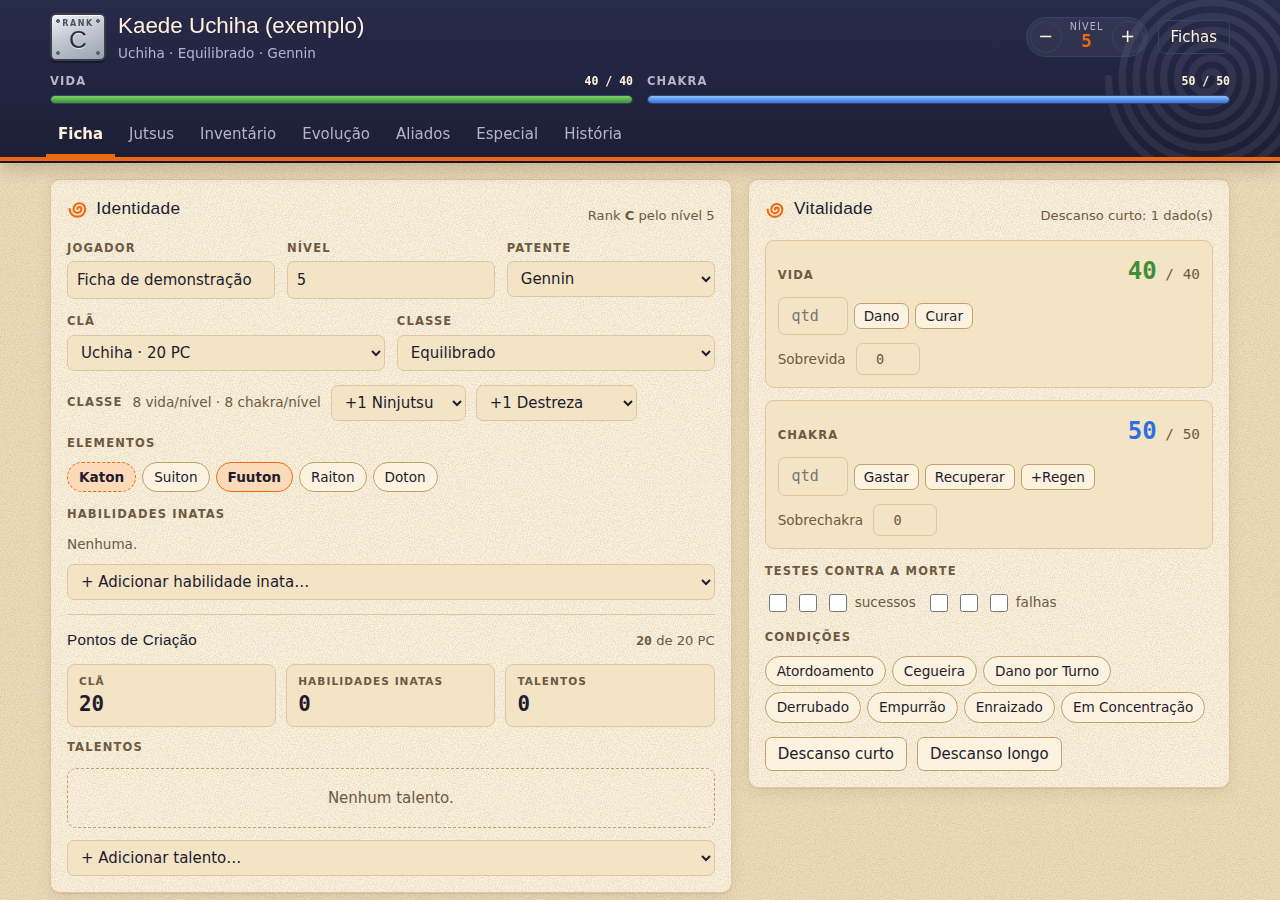
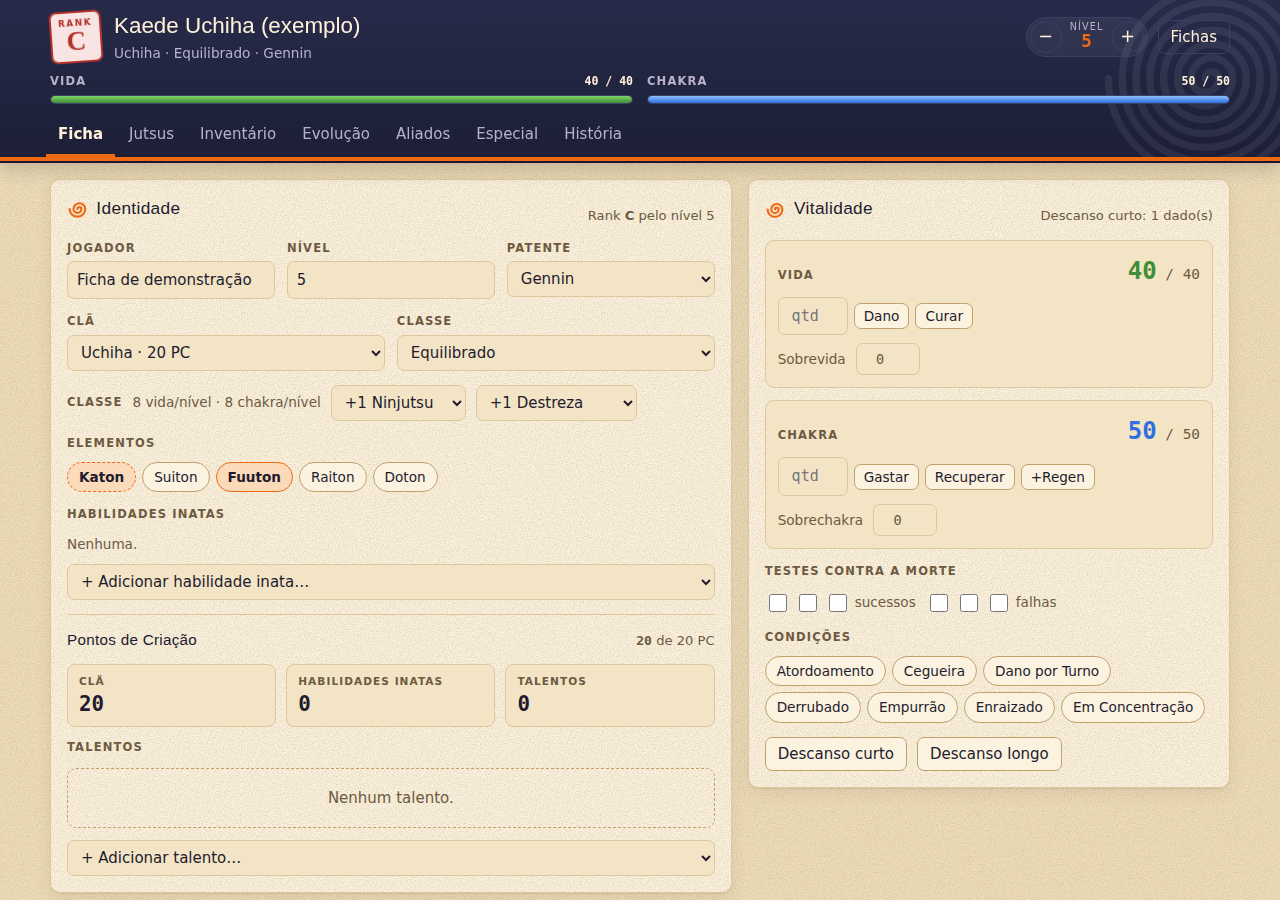
Restaura o selo de rank original e remove textos de Evolução e Aliados
- Selo de rank volta ao carimbo vermelho inclinado (cores e fonte de
  antes), sem mexer no resto do tema
- Remove os textos de apoio de Upgrades de clã, Escalonamento,
  Invocações e Marionetes

Claude-Session: https://claude.ai/code/session_01JLEPE48m9m7zbf3aS9xCqh

Changed region(s): [[0.0312, 0.0, 0.2812, 0.0933]]

diff --git a/css/style.css b/css/style.css
@@ -12,6 +12,9 @@
   --accent-soft: #FADAB9;
   --seal: #B8281E;
   --seal-soft: #F5D8D0;
+  --selo: #B5302A;
+  --selo-soft: #F8E4E2;
+  --f-selo: "Shippori Mincho B1", "Hiragino Mincho ProN", "Yu Mincho", Georgia, serif;
   --vida: #3E8E37;
   --vida-soft: #DCEBCF;
   --chakra: #2F6FE0;
@@ -48,6 +51,8 @@
     --accent-soft: #432818;
     --seal: #E8594B;
     --seal-soft: #3F1D1C;
+    --selo: #E4604F;
+    --selo-soft: #3A1F1D;
     --vida: #5DBB54;
     --vida-soft: #1C3319;
     --chakra: #5E9BFF;
@@ -78,6 +83,8 @@
   --accent-soft: #432818;
   --seal: #E8594B;
   --seal-soft: #3F1D1C;
+  --selo: #E4604F;
+  --selo-soft: #3A1F1D;
   --vida: #5DBB54;
   --vida-soft: #1C3319;
   --chakra: #5E9BFF;
@@ -146,23 +153,15 @@ p { margin: 0; }
 .topo .btn, .topo .btn-ico { background: transparent; color: var(--hdr-ink); border-color: var(--hdr-line); }
 .topo .btn:hover, .topo .btn-ico:hover { border-color: var(--accent); color: var(--accent); }
 
-/* Selo de rank: placa da bandana ninja */
 .selo {
-  width: 56px; height: 48px; flex: none; position: relative;
-  border: 2px solid #3A3F4E; border-radius: 6px;
-  background:
-    radial-gradient(circle at 6px 6px, #5B6272 1.6px, transparent 2.2px),
-    radial-gradient(circle at calc(100% - 6px) 6px, #5B6272 1.6px, transparent 2.2px),
-    radial-gradient(circle at 6px calc(100% - 6px), #5B6272 1.6px, transparent 2.2px),
-    radial-gradient(circle at calc(100% - 6px) calc(100% - 6px), #5B6272 1.6px, transparent 2.2px),
-    linear-gradient(160deg, #F1F3F6 0%, #C3C9D2 45%, #99A2AF 100%);
-  box-shadow: inset 0 1px 0 rgba(255, 255, 255, .8), 0 2px 0 rgba(0, 0, 0, .35);
-  color: #2A2F3D;
+  width: 52px; height: 52px; flex: none;
+  border: 2.5px solid var(--selo); color: var(--selo); background: var(--selo-soft);
+  border-radius: 7px; transform: rotate(-4deg);
   display: grid; place-items: center; align-content: center; gap: 0;
-  font-family: var(--f-display);
+  font-family: var(--f-selo);
 }
-.selo-rot { font-size: .5rem; letter-spacing: .2em; text-transform: uppercase; font-family: var(--f-body); font-weight: 700; line-height: 1; color: #4A5061; }
-.selo-letra { font-size: 1.55rem; line-height: 1; text-shadow: 0 1px 0 rgba(255, 255, 255, .7); }
+.selo-rot { font-size: .55rem; letter-spacing: .18em; text-transform: uppercase; font-family: var(--f-body); font-weight: 700; line-height: 1; }
+.selo-letra { font-size: 1.7rem; font-weight: 800; line-height: 1; }
 
 .nivel-ctl { display: flex; align-items: center; gap: 4px; background: rgba(255, 255, 255, .06); border: 1px solid var(--hdr-line); border-radius: 999px; padding: 3px; }
 .nivel-val { display: grid; justify-items: center; min-width: 42px; line-height: 1.05; }
@@ -398,7 +397,7 @@ details.modulo > .modulo-corpo { padding: 0 16px 16px; display: grid; gap: 12px;
   .nivel-ctl .btn-ico { width: 28px; height: 28px; }
   #btnFichas { padding: 6px 9px; }
   .abas button { padding: 7px 10px 8px; }
-  .selo { width: 48px; height: 42px; }
+  .selo { width: 44px; height: 44px; }
   .selo-letra { font-size: 1.4rem; }
   .painel { padding: 13px; }
 }

diff --git a/js/app.js b/js/app.js
@@ -744,7 +744,6 @@
     <section class="painel c6">
       <div class="painel-topo"><h2>Upgrades de clã</h2><span class="extra">Níveis 5, 10, 15 e 20</span></div>
       ${NIVEIS_UPGRADE.map((n) => campo(`Nível ${n}${F.nivel < n ? ' · ainda não alcançado' : ''}`, area(`upgrades.${n}`, F.upgrades[n], 'rows="2" placeholder="Aprimoramento, novo jutsu, técnica criada, despertar…"'))).join('')}
-      <p class="sub">Opções: aprimorar técnica até 1 rank acima (chakra ao mínimo do rank e +30% de dano), alterar efeito de técnica, aprender jutsu do seu rank, criar jutsu do seu rank fora das regras, unir 2 estilos de luta, ou despertar técnicas (D).</p>
     </section>`;
 
     const tc = F.treinoCalc;
@@ -775,7 +774,6 @@
       <div class="tabela-wrap"><table class="nivel-tab"><tbody>
         ${Object.entries(R.ESCALONAMENTO).map(([lv, t]) => `<tr class="${Number(lv) === F.nivel ? 'atual' : Number(lv) < F.nivel ? 'passado' : ''}"><td>${lv}</td><td>${esc(t) || '—'}</td></tr>`).join('')}
       </tbody></table></div>
-      <p class="sub">Sem comprar jutsu, o ninja pode receber Ryo de missão do rank: níveis 1, 2 e 4: 200 · 7 e 9: 400 · 12 e 14: 800 · 17, 19 e 20: 1600.</p>
     </section>`;
 
     return `<div class="grade">${pericias}${upgrades}${treinos}${escal}</div>`;
@@ -825,7 +823,6 @@
         <div class="painel-topo"><h2>Invocações e companheiros</h2><span class="extra">${F.companheiros.length}</span></div>
         <div class="barra-ferr"><button class="btn primario" data-acao="abrirCriaturas">Adicionar criatura</button><button class="btn" data-acao="novoComp">Em branco</button></div>
         <div class="lista">${comps || '<div class="vazio">Nenhuma invocação ou companheiro.</div>'}</div>
-        <p class="sub">A invocação só age na rotação seguinte, antes ou depois do turno do invocador, com 3 PA (ataque 2 PA, deslocamento 1 PA). Defende como ninja, apenas com Tai (ou Constituição ao defender aliado). Máximo: 1 de rank B e 1 de rank A ou S.</p>
         <details class="item"><summary><span class="item-linha"><span class="item-nome">Invocação reversa (d20)</span></span></summary>
           <div class="item-corpo tabela-wrap"><table><tbody>${(window.INVOCACAO_REVERSA || []).map(([d, n]) => `<tr><td class="num">${d}</td><td>${esc(n)}</td></tr>`).join('')}</tbody></table></div></details>
       </section>
@@ -835,7 +832,6 @@
           <select id="addMario" aria-label="Adicionar marionete"><option value="">+ Adicionar marionete…</option>${CAT_M.map((m, i) => opt(i, `${m.n} · ${m.custo}`)).join('')}${opt('novo', 'Marionete criada em treino (em branco)')}</select>
         </div>
         <div class="lista">${marios || '<div class="vazio">Nenhuma marionete. Exige “Kugutsu no Jutsu”.</div>'}</div>
-        <p class="sub">Cada PA gasto manipulando é um PA para cada marionete. Uma jogada de ataque por marionete (2 PA, um componente). DN da marionete = DN de Ninjutsu do usuário. Consertadas no descanso longo.</p>
       </section>
     </div>`;
   }

diff --git a/index.html b/index.html
@@ -7,7 +7,7 @@
 <meta name="description" content="Protótipo de ficha de personagem para o RPG de Naruto (sistema próprio).">
 <link rel="preconnect" href="https://fonts.googleapis.com">
 <link rel="preconnect" href="https://fonts.gstatic.com" crossorigin>
-<link rel="stylesheet" href="https://fonts.googleapis.com/css2?family=Dela+Gothic+One&family=JetBrains+Mono:wght@500;700&family=Zen+Kaku+Gothic+New:wght@400;500;700&display=swap">
+<link rel="stylesheet" href="https://fonts.googleapis.com/css2?family=Dela+Gothic+One&family=JetBrains+Mono:wght@500;700&family=Shippori+Mincho+B1:wght@800&family=Zen+Kaku+Gothic+New:wght@400;500;700&display=swap">
 <link rel="stylesheet" href="css/style.css">
 </head>
 <body>
